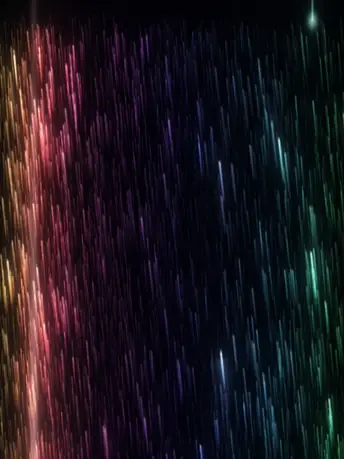
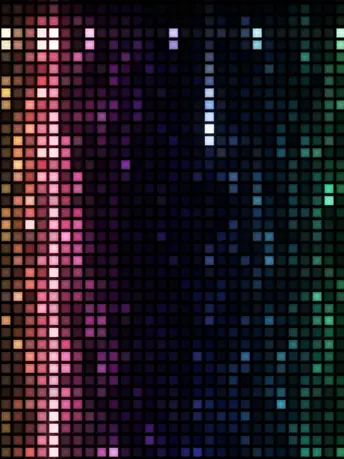
RAIN TURNS: dual mode back layer gets a different hue (?bh=)
Back layer hue-shifted 150 degrees with saturation kept, so front and
back read as different color tones.

Claude-Session: https://claude.ai/code/session_019C65K2NCmDDLr2MsA9MRnb

diff --git a/art-v128-rain-turns.html b/art-v128-rain-turns.html
@@ -231,12 +231,16 @@ FS_HEAD+'uniform sampler2D u_a,u_b,u_c,u_m,u_l,u_l2;uniform vec2 u_inv;uniform f
 ' c=c/(1.+max(c-.8,0.)*.8);o=vec4(c,1.);}');
 // ---------- LEDの粒ごとの明るさ(1粒=1テクセル)。粒の中を9点で拾って平均と最大の間をとり、前のコマから滑らかにつなぐ(点くときは素早く、消えるときは少し残光) ----------
 var cellP=prog('#version 300 es\nlayout(location=0) in vec2 p;void main(){gl_Position=vec4(p,0.,1.);}',
-FS_HEAD+'uniform sampler2D u_a,u_p;uniform vec2 u_inv;uniform vec4 u_xf;uniform float u_cell,u_up,u_dec,u_first;out vec4 o;\n'+
+FS_HEAD+'uniform sampler2D u_a,u_p;uniform vec2 u_inv;uniform vec4 u_xf;uniform float u_cell,u_up,u_dec,u_first,u_rot;out vec4 o;\n'+
 'float hsh(vec2 p){return fract(sin(dot(p,vec2(127.1,311.7)))*43758.5453);}\n'+
 'void main(){vec2 cid=floor(gl_FragCoord.xy);vec2 cc=(cid+.5)*u_cell*u_inv*u_xf.xy+u_xf.zw;vec2 st=u_cell*u_inv*u_xf.xy/3.;\n'+
 ' vec3 sm=vec3(0.),mx=vec3(0.);for(int j=-1;j<=1;j++)for(int i=-1;i<=1;i++){vec3 x=texture(u_a,cc+vec2(float(i),float(j))*st).rgb;sm+=x;mx=max(mx,x);}\n'+
 ' vec3 v=mix(sm/9.*1.3,mx,.5);v=pow(max(v-.03,0.),vec3(1.35))*2.2;v*=.92+.16*hsh(cid);\n'+
 ' float lum=max(max(v.r,v.g),v.b);v/=max(lum,1.);\n'+
+' if(abs(u_rot)>.001){vec4 K=vec4(0.,-1./3.,2./3.,-1.);vec4 pp=mix(vec4(v.bg,K.wz),vec4(v.gb,K.xy),step(v.b,v.g));vec4 qq=mix(vec4(pp.xyw,v.r),vec4(v.r,pp.yzx),step(pp.x,v.r));\n'+
+'  float dd=qq.x-min(qq.w,qq.y);vec3 hv=vec3(abs(qq.z+(qq.w-qq.y)/(6.*dd+1e-10)),dd/(qq.x+1e-10),qq.x);\n'+
+'  hv.x=fract(hv.x+u_rot/6.2832);hv.y=max(hv.y,.88);vec3 pq=abs(fract(hv.xxx+vec3(1.,2./3.,1./3.))*6.-3.);v=hv.z*mix(vec3(1.),clamp(pq-1.,0.,1.),hv.y);}\n'+   // 2026/11/28「奥と前で色合いも別に」: 奥の層だけ色相を回す
+
 ' vec3 pv=texelFetch(u_p,ivec2(cid),0).rgb;\n'+
 ' vec3 r=mix(max(v,pv*u_dec),mix(pv,v,u_up),step(pv,v));\n'+
 ' o=vec4(u_first>.5?v:r,1.);}');
@@ -250,11 +254,11 @@ function ensureCellRT(set,cpx){var w=Math.ceil(W/cpx)+1,h=Math.ceil(H/cpx)+1;
   if(set.rt&&set.rt[0].w===w&&set.rt[0].h===h)return;
   if(set.rt)set.rt.forEach(function(r){gl.deleteTexture(r.t);gl.deleteFramebuffer(r.f);});
   set.rt=[mkCellRT(w,h),mkCellRT(w,h)];set.first=true;}
-function runCell(set,cpx,xf,dt){ensureCellRT(set,cpx);var cdst=set.rt[set.idx],csrc=set.rt[1-set.idx];
+function runCell(set,cpx,xf,dt,rot){ensureCellRT(set,cpx);var cdst=set.rt[set.idx],csrc=set.rt[1-set.idx];
   gl.bindFramebuffer(gl.FRAMEBUFFER,cdst.f);gl.viewport(0,0,cdst.w,cdst.h);gl.useProgram(cellP.p);
   gl.activeTexture(gl.TEXTURE0);gl.bindTexture(gl.TEXTURE_2D,RT.sc.t);gl.uniform1i(cellP.u.u_a,0);
   gl.activeTexture(gl.TEXTURE1);gl.bindTexture(gl.TEXTURE_2D,csrc.t);gl.uniform1i(cellP.u.u_p,1);
-  gl.uniform2f(cellP.u.u_inv,1/W,1/H);gl.uniform4f(cellP.u.u_xf,xf[0],xf[1],xf[2],xf[3]);gl.uniform1f(cellP.u.u_cell,cpx);gl.uniform1f(cellP.u.u_up,1-Math.exp(-dt*45));gl.uniform1f(cellP.u.u_dec,Math.exp(-dt*11));gl.uniform1f(cellP.u.u_first,set.first?1:0);
+  gl.uniform2f(cellP.u.u_inv,1/W,1/H);gl.uniform4f(cellP.u.u_xf,xf[0],xf[1],xf[2],xf[3]);gl.uniform1f(cellP.u.u_cell,cpx);gl.uniform1f(cellP.u.u_up,1-Math.exp(-dt*45));gl.uniform1f(cellP.u.u_dec,Math.exp(-dt*11));gl.uniform1f(cellP.u.u_first,set.first?1:0);gl.uniform1f(cellP.u.u_rot,rot||0);
   gl.drawArrays(gl.TRIANGLE_STRIP,0,4);set.first=false;set.idx=1-set.idx;}
 function mkRT(w,h){var t=gl.createTexture();gl.bindTexture(gl.TEXTURE_2D,t);gl.texImage2D(gl.TEXTURE_2D,0,gl.RGBA8,w,h,0,gl.RGBA,gl.UNSIGNED_BYTE,null);
   gl.texParameteri(gl.TEXTURE_2D,gl.TEXTURE_MIN_FILTER,gl.LINEAR);gl.texParameteri(gl.TEXTURE_2D,gl.TEXTURE_MAG_FILTER,gl.LINEAR);
@@ -330,7 +334,7 @@ addEventListener('resize',resize);resize();
 
 var hueBlk=null,hueT=0,hueV=0,rDir=1,rPh=0,phV=0,phH=0,dirV=1,dirH=1,wH=0,preV=0;var LED=Q.get('led')!=='0';
 var GRAIN=[8.4,12,16,24,4.2,2.1,0,2.1],GNAME=['LEDの粒: 大(約8px)','LEDの粒: 特大(約12px)','LEDの粒: 超特大(約16px)','LEDの粒: 巨大(約24px)','LEDの粒: 中(約4px)','LEDの粒: 小(約2px)','LEDなし(元の描き方)','LEDの粒: 奥=超特大/巨大・前=小か元'],gi=0;   // 2026/11/28「あえて大きくした方がインパクトある」→ 既定は大   // 粒の大きさの見比べ(?cell=4/8/2/0 か下の▦ボタン)
-var dualBack=[16,24].indexOf(+Q.get('back'))>=0?+Q.get('back'):16,dualFront=Q.get('front')==='0'?0:2;   // 二重表示(?cell=dual)の奥の粒の大きさと、前(2=小・0=元)
+var dualBack=[16,24].indexOf(+Q.get('back'))>=0?+Q.get('back'):16,dualFront=Q.get('front')==='0'?0:2,dualHue=Q.get('bh')!==null&&!isNaN(+Q.get('bh'))?+Q.get('bh'):150;   // ?bh=奥の色相のずらし(度)。0で前と同じ色   // 二重表示(?cell=dual)の奥の粒の大きさと、前(2=小・0=元)
 var gAuto=true,gOff=0,AUTO_G=[0,1,2,3,5,6];   // 2026/11/28「7分一周はいかんなー」→ 中(4px)を外して6分で1周(1時間でちょうど10周、毎時0分は大から)   // 2026/11/28「2と元も入れてよ」→ 小(2px)とLEDなしも順番に入れる
    // 2026/11/28「1分おきに大きさを自動で変更にして」→ 毎分、大→特大→超特大→巨大→中 の順に粒が変わる(▦で順番を1つ進める)
 (function(){var c=Q.get('cell');if(c!==null){var k={'8':0,'12':1,'16':2,'24':3,'4':4,'2':5,'0':6,'dual':7}[c];if(k!==undefined){gi=k;gAuto=false;}}})();   // LEDパネル表示(?led=0 で元の描き方)
@@ -387,7 +391,7 @@ function frame(now){
   var cpx=Math.max(2,Math.round(GRAIN[gi]*W/innerWidth)),useLed=LED&&GRAIN[gi]>0;
   if(gi===7)useLed=LED&&dualFront>0;var dual=(gi===7)&&LED;   // 奥=大きい粒・前=小(約2px)か元(LEDなし)を同じ画面に重ねる(?cell=dual&back=16|24&front=2|0。2026/11/28「特大と小は要らない」→奥は超特大(16)か巨大(24)だけ)
   var bcpx=Math.max(2,Math.round(dualBack*W/innerWidth));
-  if(useLed)runCell(cellSets[0],cpx,[1,1,0,0],dt);if(dual)runCell(cellSets[1],bcpx,[.82,.82,.09,.04],dt);
+  if(useLed)runCell(cellSets[0],cpx,[1,1,0,0],dt,0);if(dual)runCell(cellSets[1],bcpx,[.82,.82,.09,.04],dt,dualHue?(dualHue+28*Math.sin(t*.16))*Math.PI/180:0);
   gl.bindFramebuffer(gl.FRAMEBUFFER,null);gl.viewport(0,0,W,H);gl.useProgram(compP.p);
   if(useLed){gl.activeTexture(gl.TEXTURE4);gl.bindTexture(gl.TEXTURE_2D,cellSets[0].rt[1-cellSets[0].idx].t);gl.uniform1i(compP.u.u_l,4);}
   gl.uniform1f(compP.u.u_dual,dual?1:0);if(dual){gl.activeTexture(gl.TEXTURE5);gl.bindTexture(gl.TEXTURE_2D,cellSets[1].rt[1-cellSets[1].idx].t);gl.uniform1i(compP.u.u_l2,5);gl.uniform1f(compP.u.u_cell2,bcpx);}

diff --git a/CHANGELOG.md b/CHANGELOG.md
@@ -1,3 +1,4 @@
+- 2026-11-28 クロちゃん: RAIN TURNSの二重表示で、奥と前の色合いを別にした(おっちゃん「奥と前で色合いも別にして欲しいよ」)。奥の層だけ色相を150°ずらし(約40秒かけて±28°ゆっくり揺れる)、彩度は落とさない(最初にRGBの回転で回したら緑〜茶色に濁ったので、HSVで色相だけ回して彩度を最低0.88に)。前が青・紫・ピンクのとき、奥は橙・黄・緑・赤寄りになる。`?bh=度`でずらす量を変えられる(0で前と同じ色)。確認: ヘッドレスChromium・390×844で4通り(超特大/巨大×小/元)を目で確認、コンソールエラーなし、既定表示の録画も通る。ポスター・OGPカード・IG縦型カバーを作り直した。見た目は好みが分かれるので、実機で見て`?bh=`を決める想定。**スマホ実機での重さは未確認**(art-v128-rain-turns.html, posters/, og/, reel/, CHANGELOG.md)
 - 2026-11-28 クロちゃん: RAIN TURNS(art-v128)の二重表示を、超特大(約16px)と巨大(約24px)を奥にして、前に小(約2px)か元(LEDなし)を重ねる4通りに(おっちゃん「超特大と巨大だけに2と元を重ねたパターンも欲しい」→「特大と小は要らない」)。`?cell=dual&back=16|24&front=2|0`(back省略=16、front省略=小)。直前に作った「奥=特大(12px)・前=小」は外した(奥の大きさは16と24だけ)。奥の粒の足し算を、前がLEDの粒でも元の描き方でも効くようにシェーダーの分岐の外へ移した。毎分の自動の順番(6分で1周)と▦ボタンは変えていない。確認: ヘッドレスChromium・390×844で4通りを並べて目で確認、コンソールエラーなし。ポスター・OGPカード・IG縦型カバーを作り直した。**スマホ実機での重さは未確認**(art-v128-rain-turns.html, posters/, og/, reel/, CHANGELOG.md)
 - 2026-11-28 クロちゃん: RAIN TURNS(art-v128)に「奥=特大・前=小」を同じ画面に重ねる粒の表示を追加(おっちゃん「特大と小は同じに描写できる？」→「同じ画面によ、奥に特大、前に小」)。`?cell=dual`で出す。前は小(約2px)の細かい雨、奥は同じ雨を少し拡大してずらし、特大(約12px)の粒で描いて前の雨の暗いところに透ける(前が明るい所は奥を弱める)。目盛り・光の柱・一滴は前の小の粒のもの。cellP(粒ごとの明るさ)に読み取り位置の変換(u_xf)を足し、粒の状態をセット(前・奥)に整理。**毎分の自動の順番(6分で1周)には入れていない**(7分1周がNGなので、どれと入れ替えるかおっちゃんの判断待ち)。▦ボタンの動きも変えていない。確認: ヘッドレスChromium・390×844で、?cell=dualと?cell=2を並べて目で確認、コンソールエラーなし、既定の表示で録画(mp4・720×1558)が通る。ポスター・OGPカード・IG縦型カバーはこの作品の分だけ作り直した。**スマホ実機での重さは未確認**(粒の計算の描画が1回増える。小さな描画先なので軽いはず)(art-v128-rain-turns.html, posters/, og/, reel/, CHANGELOG.md)
 - 2026-11-28 クロちゃん: BEAD CURTAINを採用・art-v129として昇格し、ギャラリーLOG先頭に追加、録画の対象にも追加(おっちゃん「これはこれで美しいね　採用で」「録画もね」。CURRENTの指定は無かったのでCURRENTはGLASS RELAYのまま)。`prototypes/bead-curtain.html`をコピーして、ap-kit.jsの相対パスをルート用に直し、冒頭に昇格の注記を追加(試作版は残す)。表示名はBEAD CURTAIN(元の仮名のまま)。LOGはRAIN TURNS(v128)の上。Published worksはRAIN TURNSの直後、`META`に操作ヒント「眺めるだけで光が糸を流れ落ちる。なぞると触れた糸に光が走る」、`REC_WORKS`に`art-v129-bead-curtain.html`、sitemap.xmlに`/art-v129-bead-curtain`を追加。`tools/poster-config.json`に`hide:#hint`・待ち3.5秒を1行追加(最初に出る操作説明がポスターに写らないように)。ポスター・OGPカード・IG縦型カバー(`reel/`)をこの作品の分だけ生成し、`gen_posters.py --check`・`gen_og.py --check`とも終了コード0(ポスターに文字は写っていないことを目視で確認)。確認: スマホ(Android Chrome)のUA・390×844のヘッドレスChromiumで、ギャラリーから`?open=`で開き、録画ボタンが出て、録画→停止でプレビューにmp4(720×1558・約3.9秒)ができ、作品と2行の透かしが映ることを確認。コンソールエラーは外部広告の読み込み失敗(テスト環境の制限)だけ。**スマホ実機での見た目・録画中の重さは未確認**(Canvas 2D、1フレームに糸約100本の玉を数千個描く。GPUなしの環境で約17fps。重い端末は糸の本数を自動で減らす。録画で重ければ`REC_WORKS`から外す)。メモ: `gen_og.py --reel --check`は、`reel/`に未登録の作品が多く(REC_WORKSなのにreel/に無いもの)終了コード1のまま。この昇格より前からの状態で、今回の作品の分はOK(art-v129-bead-curtain.html, prototypes/bead-curtain.html, index.html, posters/, og/, reel/, tools/poster-config.json, sitemap.xml, CHANGELOG.md)
